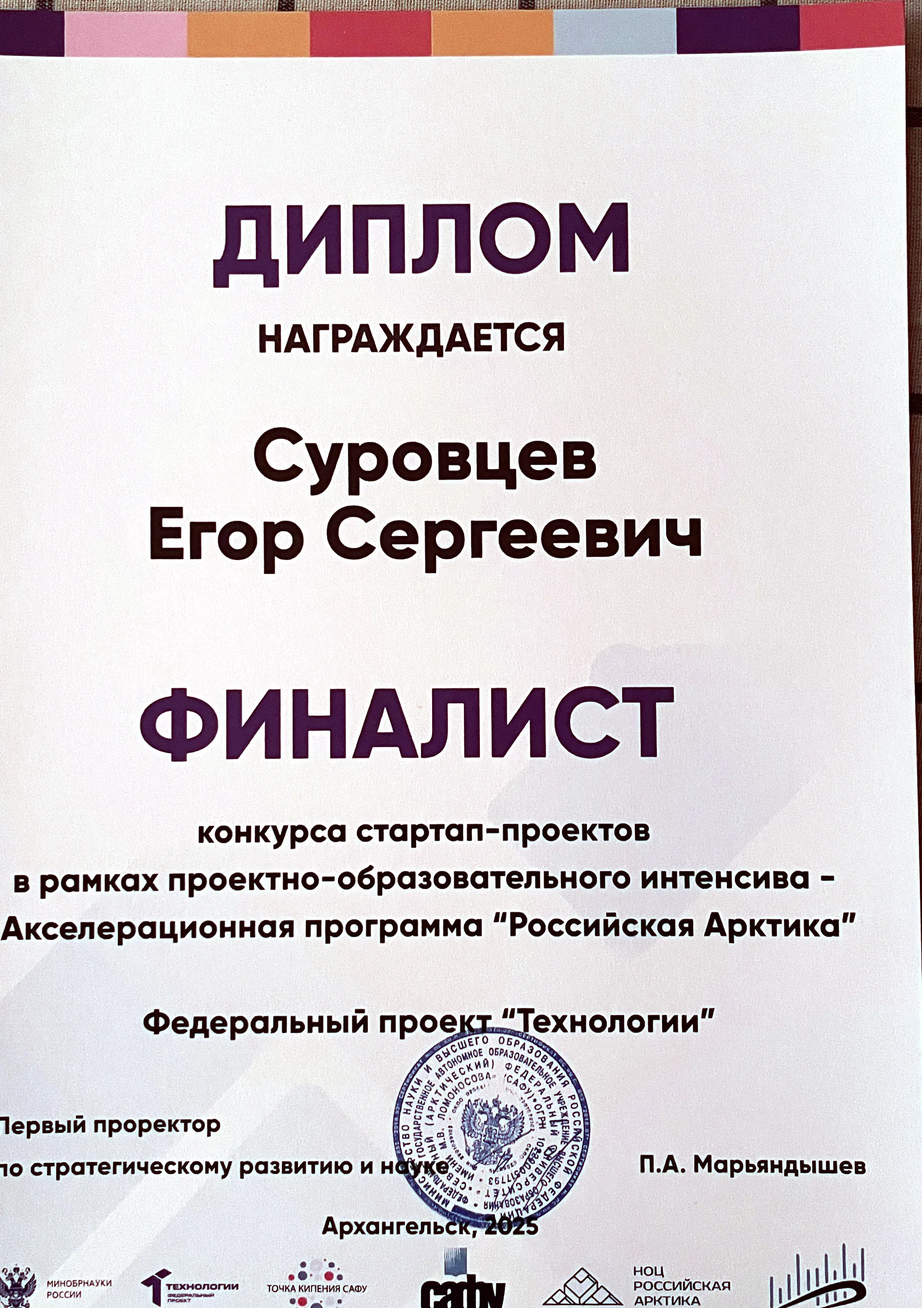
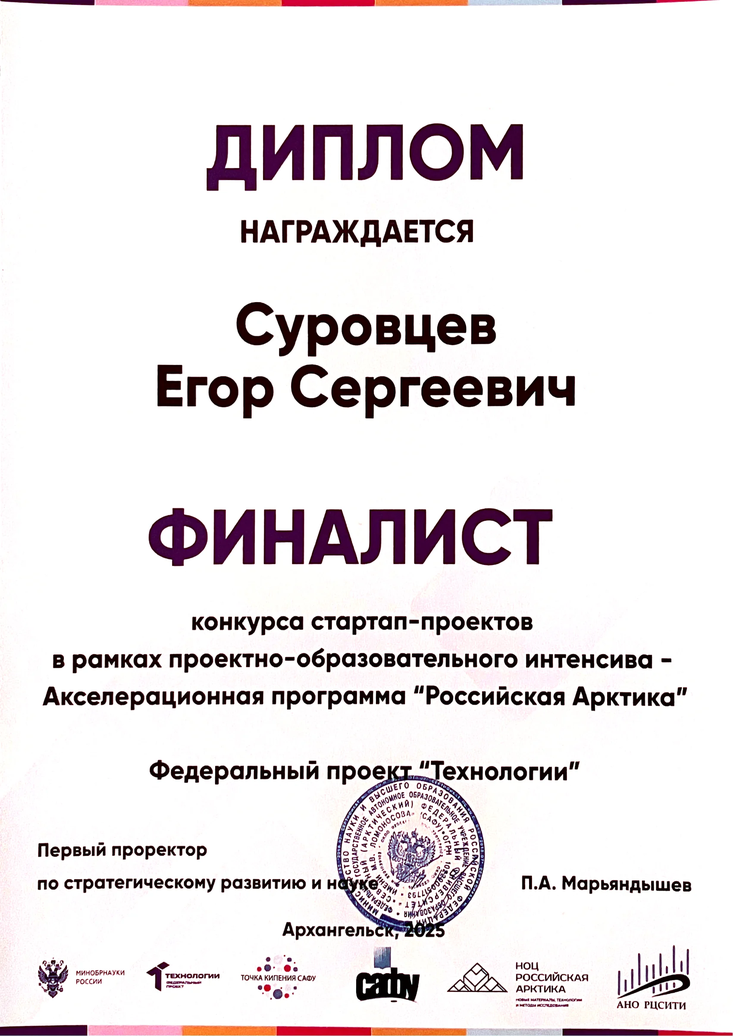
feat(awards): add KosmoHackathon 3rd place, replace scanned certificates

diff --git a/src/data/awards.ts b/src/data/awards.ts
@@ -33,6 +33,14 @@ export const awards: Award[] = [
     certificateAlt: 'Сертификат с отличием трека «Большие данные» ИТ Академии Samsung 2026',
   },
   {
+    id: 'kosmohackathon-sfo-2026',
+    year: '2026',
+    rank: '3-е место',
+    title: 'КосмоХакатон Сибирского федерального округа',
+    certificateSrc: '/assets/certificates/kosmohackathon-sfo-3rd-place-2026.webp',
+    certificateAlt: 'Диплом III степени хакатона Сибирского федерального округа «КосмоХакатон», Красноярск 2026',
+  },
+  {
     id: 'mpit-hackathon-2025',
     year: '2025',
     rank: '2-е место',
